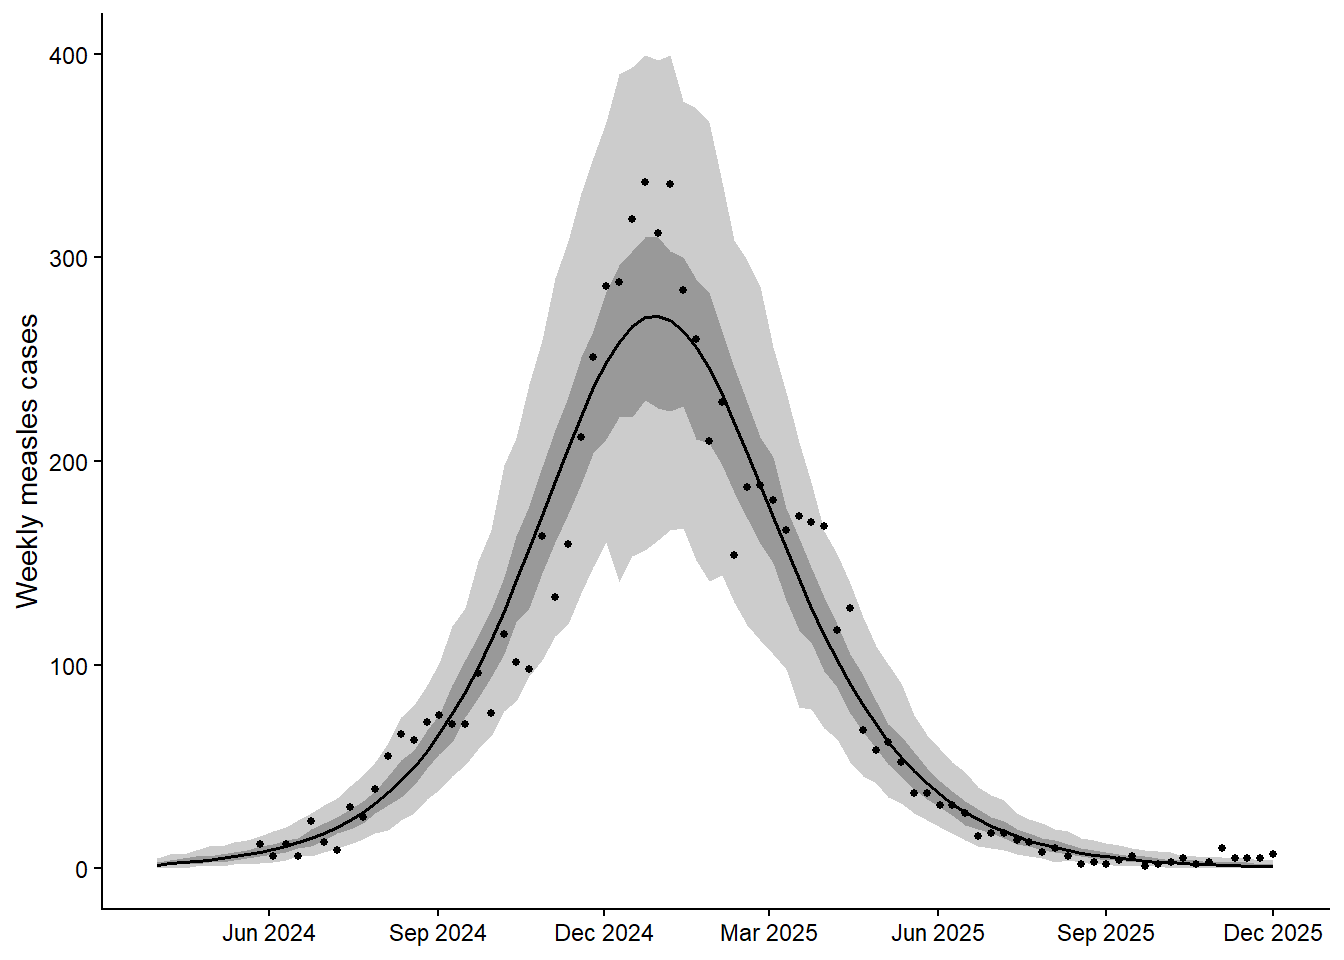
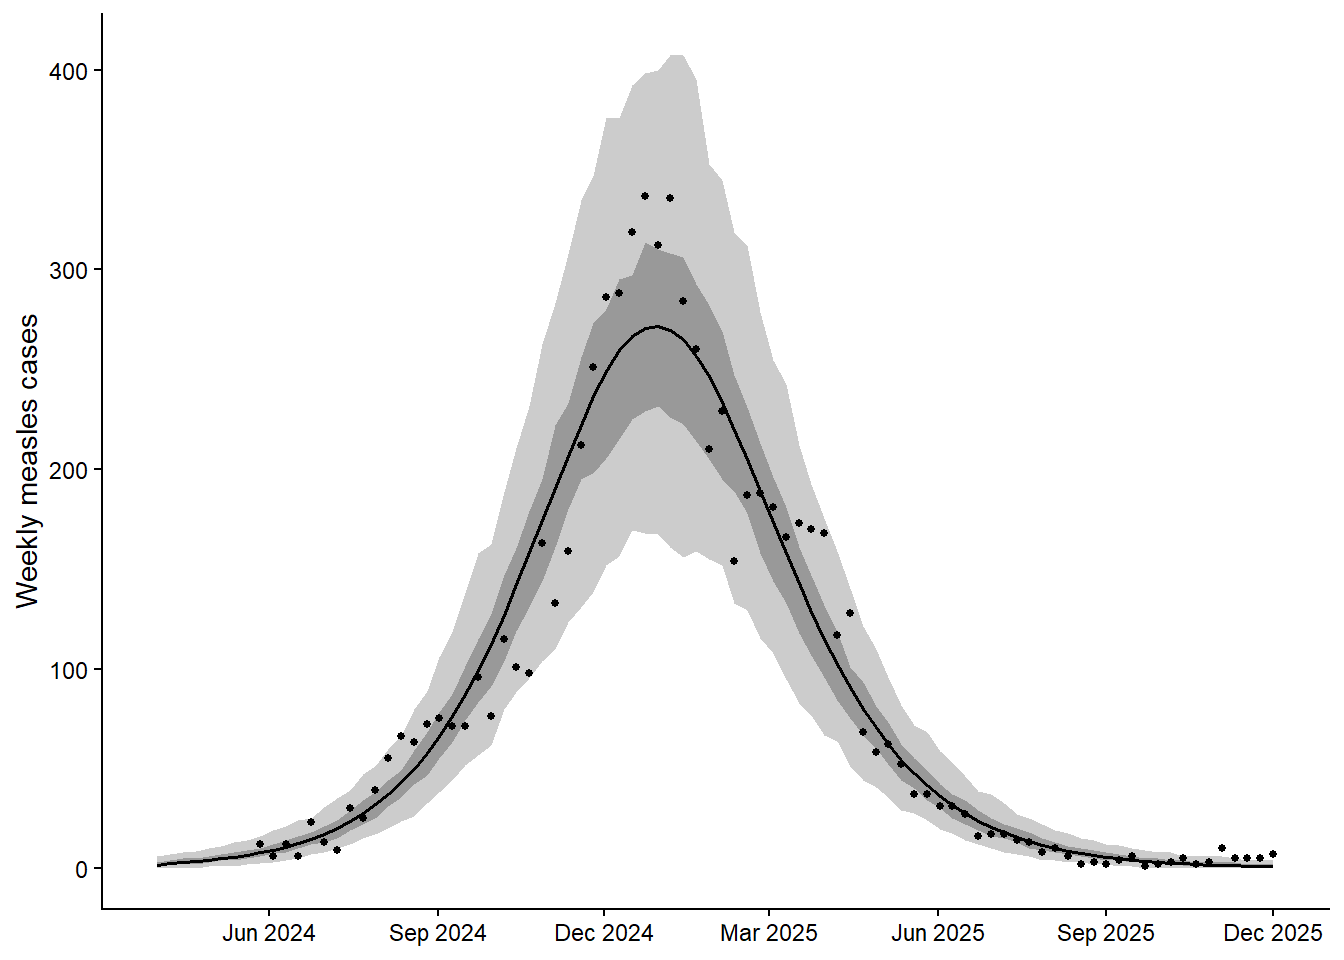
update

diff --git a/docs/03_res3.html b/docs/03_res3.html
@@ -849,7 +849,7 @@ window.Quarto = {
 <div class="code-copy-outer-scaffold"><div class="sourceCode cell-code" id="cb37"><pre class="sourceCode r code-with-copy"><code class="sourceCode r"><span id="cb37-1"><a href="#cb37-1" aria-hidden="true" tabindex="-1"></a><span class="fu">system.time</span>(<span class="fu">replicate</span>(<span class="dv">100</span>, <span class="fu">loglik</span>(p_start)))   <span class="co"># seconds per 100 evaluations</span></span></code></pre></div><button title="Copy to Clipboard" class="code-copy-button"><i class="bi"></i></button></div>
 <div class="cell-output cell-output-stdout">
 <pre><code>   user  system elapsed 
-   1.28    0.02    1.44 </code></pre>
+   1.07    0.01    1.07 </code></pre>
 </div>
 </div>
 </section>
@@ -1138,6 +1138,18 @@ phi   1.005 25.975 13.530 23.276 38.530
 </div>
 </div>
 </div>
+<p>A few ways I’ve tried:</p>
+<ul>
+<li><p>Fit alpha_M (admission due to measles): kappa doesn’t change much, but alpha_M becomes much lower and not making sense</p></li>
+<li><p>Add the vaccination campaign (by having S_C -&gt; R_C according to HCDC data). This just increase the reporting rate of the observation model.</p></li>
+</ul>
+<p>After a few discussion with Claude, looks like what I model admission and discharge is very specific to inpatient. It suggests to model an outpatient clinic, where most infection may occur. I checked the outpatient data of CH1 and there are on average 2000 visits per day, much higher than inpatients.</p>
+<p><span class="math display">\[\frac{dS_C}{dt} = -(\lambda_C + \lambda_O)S_C - \xi\alpha S_C + \delta S_H\]</span></p>
+<p><span class="math display">\[\frac{dE_C}{dt} = (\lambda_C + \lambda_O)S_C - (\sigma + \xi\alpha)E_C + \delta E_H\]</span></p>
+<p><span class="math display">\[\lambda_O(t) = \omega_S \kappa_O \beta \frac{I_O(t)}{N_O(t)}\]</span></p>
+<p><span class="math inline">\(\omega_S\)</span> is the share of the day a person in compartment <span class="math inline">\(X\)</span> spends in the outpatient clinic.</p>
+<p><span class="math inline">\(\kappa_O\)</span> is transmission per unit time inside a clinic relative to the community, maybe this one will be &gt; 1.</p>
+<p>What do you think?</p>
 </section>
 </section>
 <section id="relationship-between-s_h-and-s_c" class="level2">
